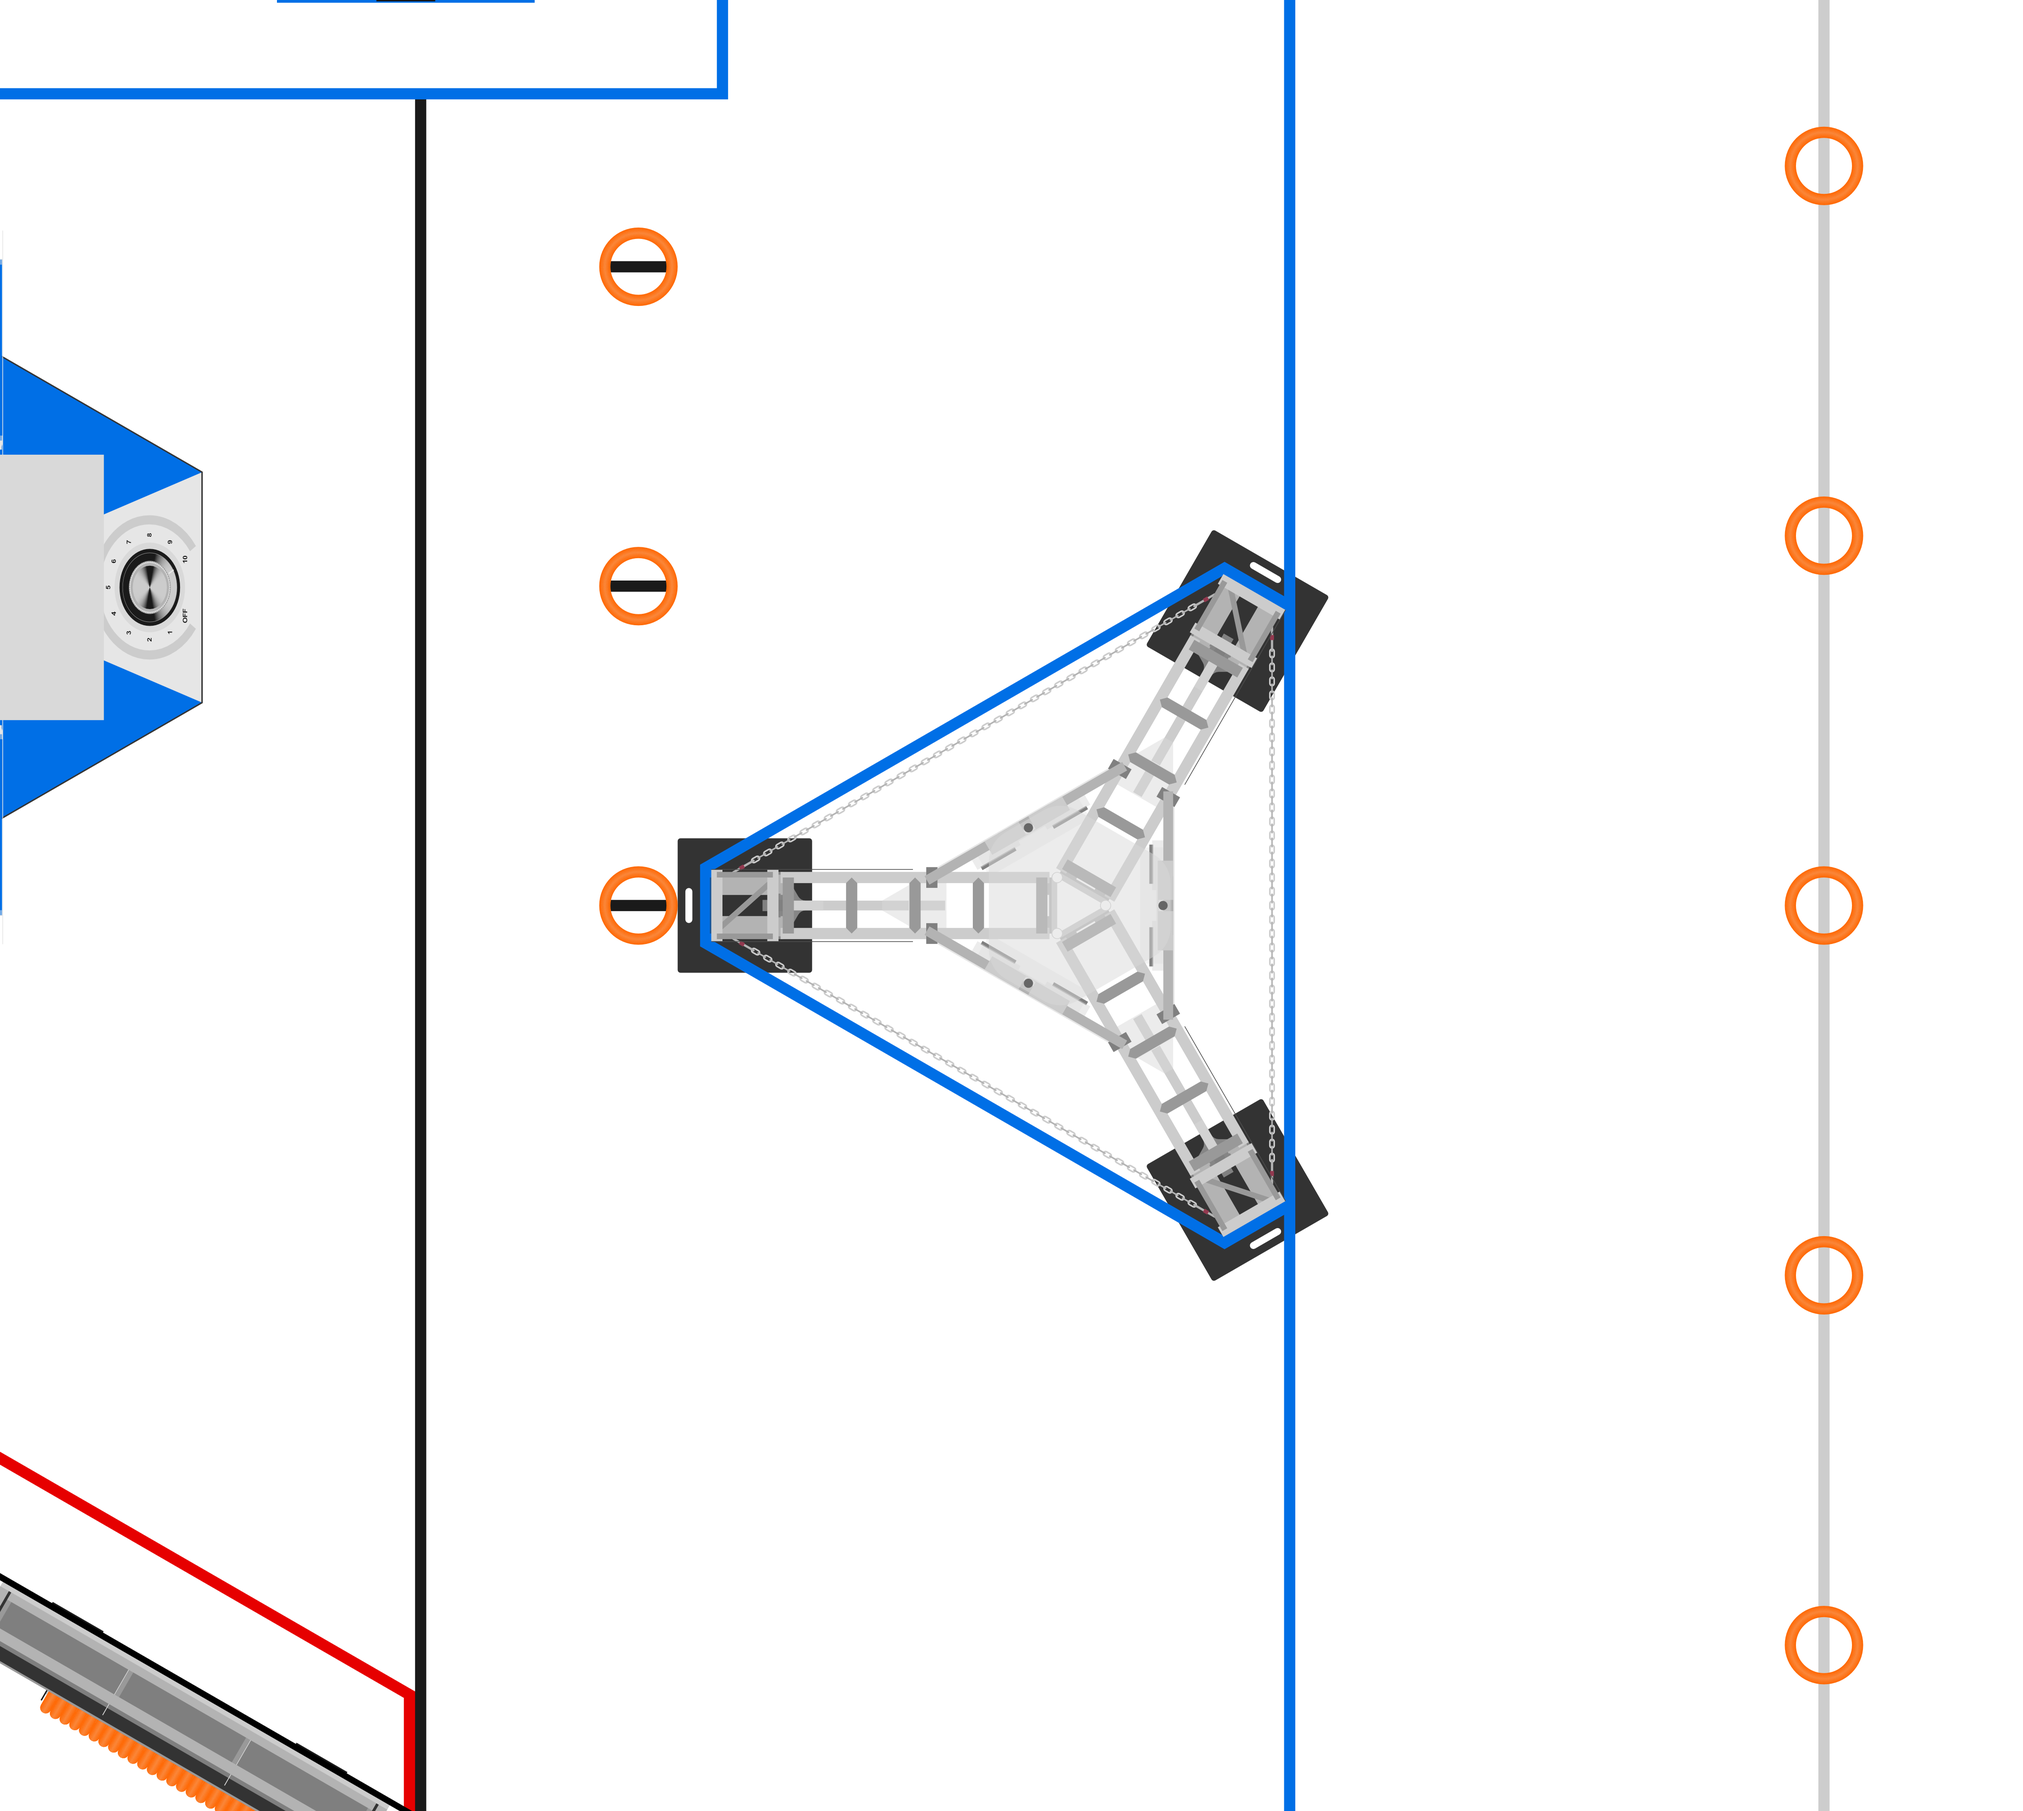
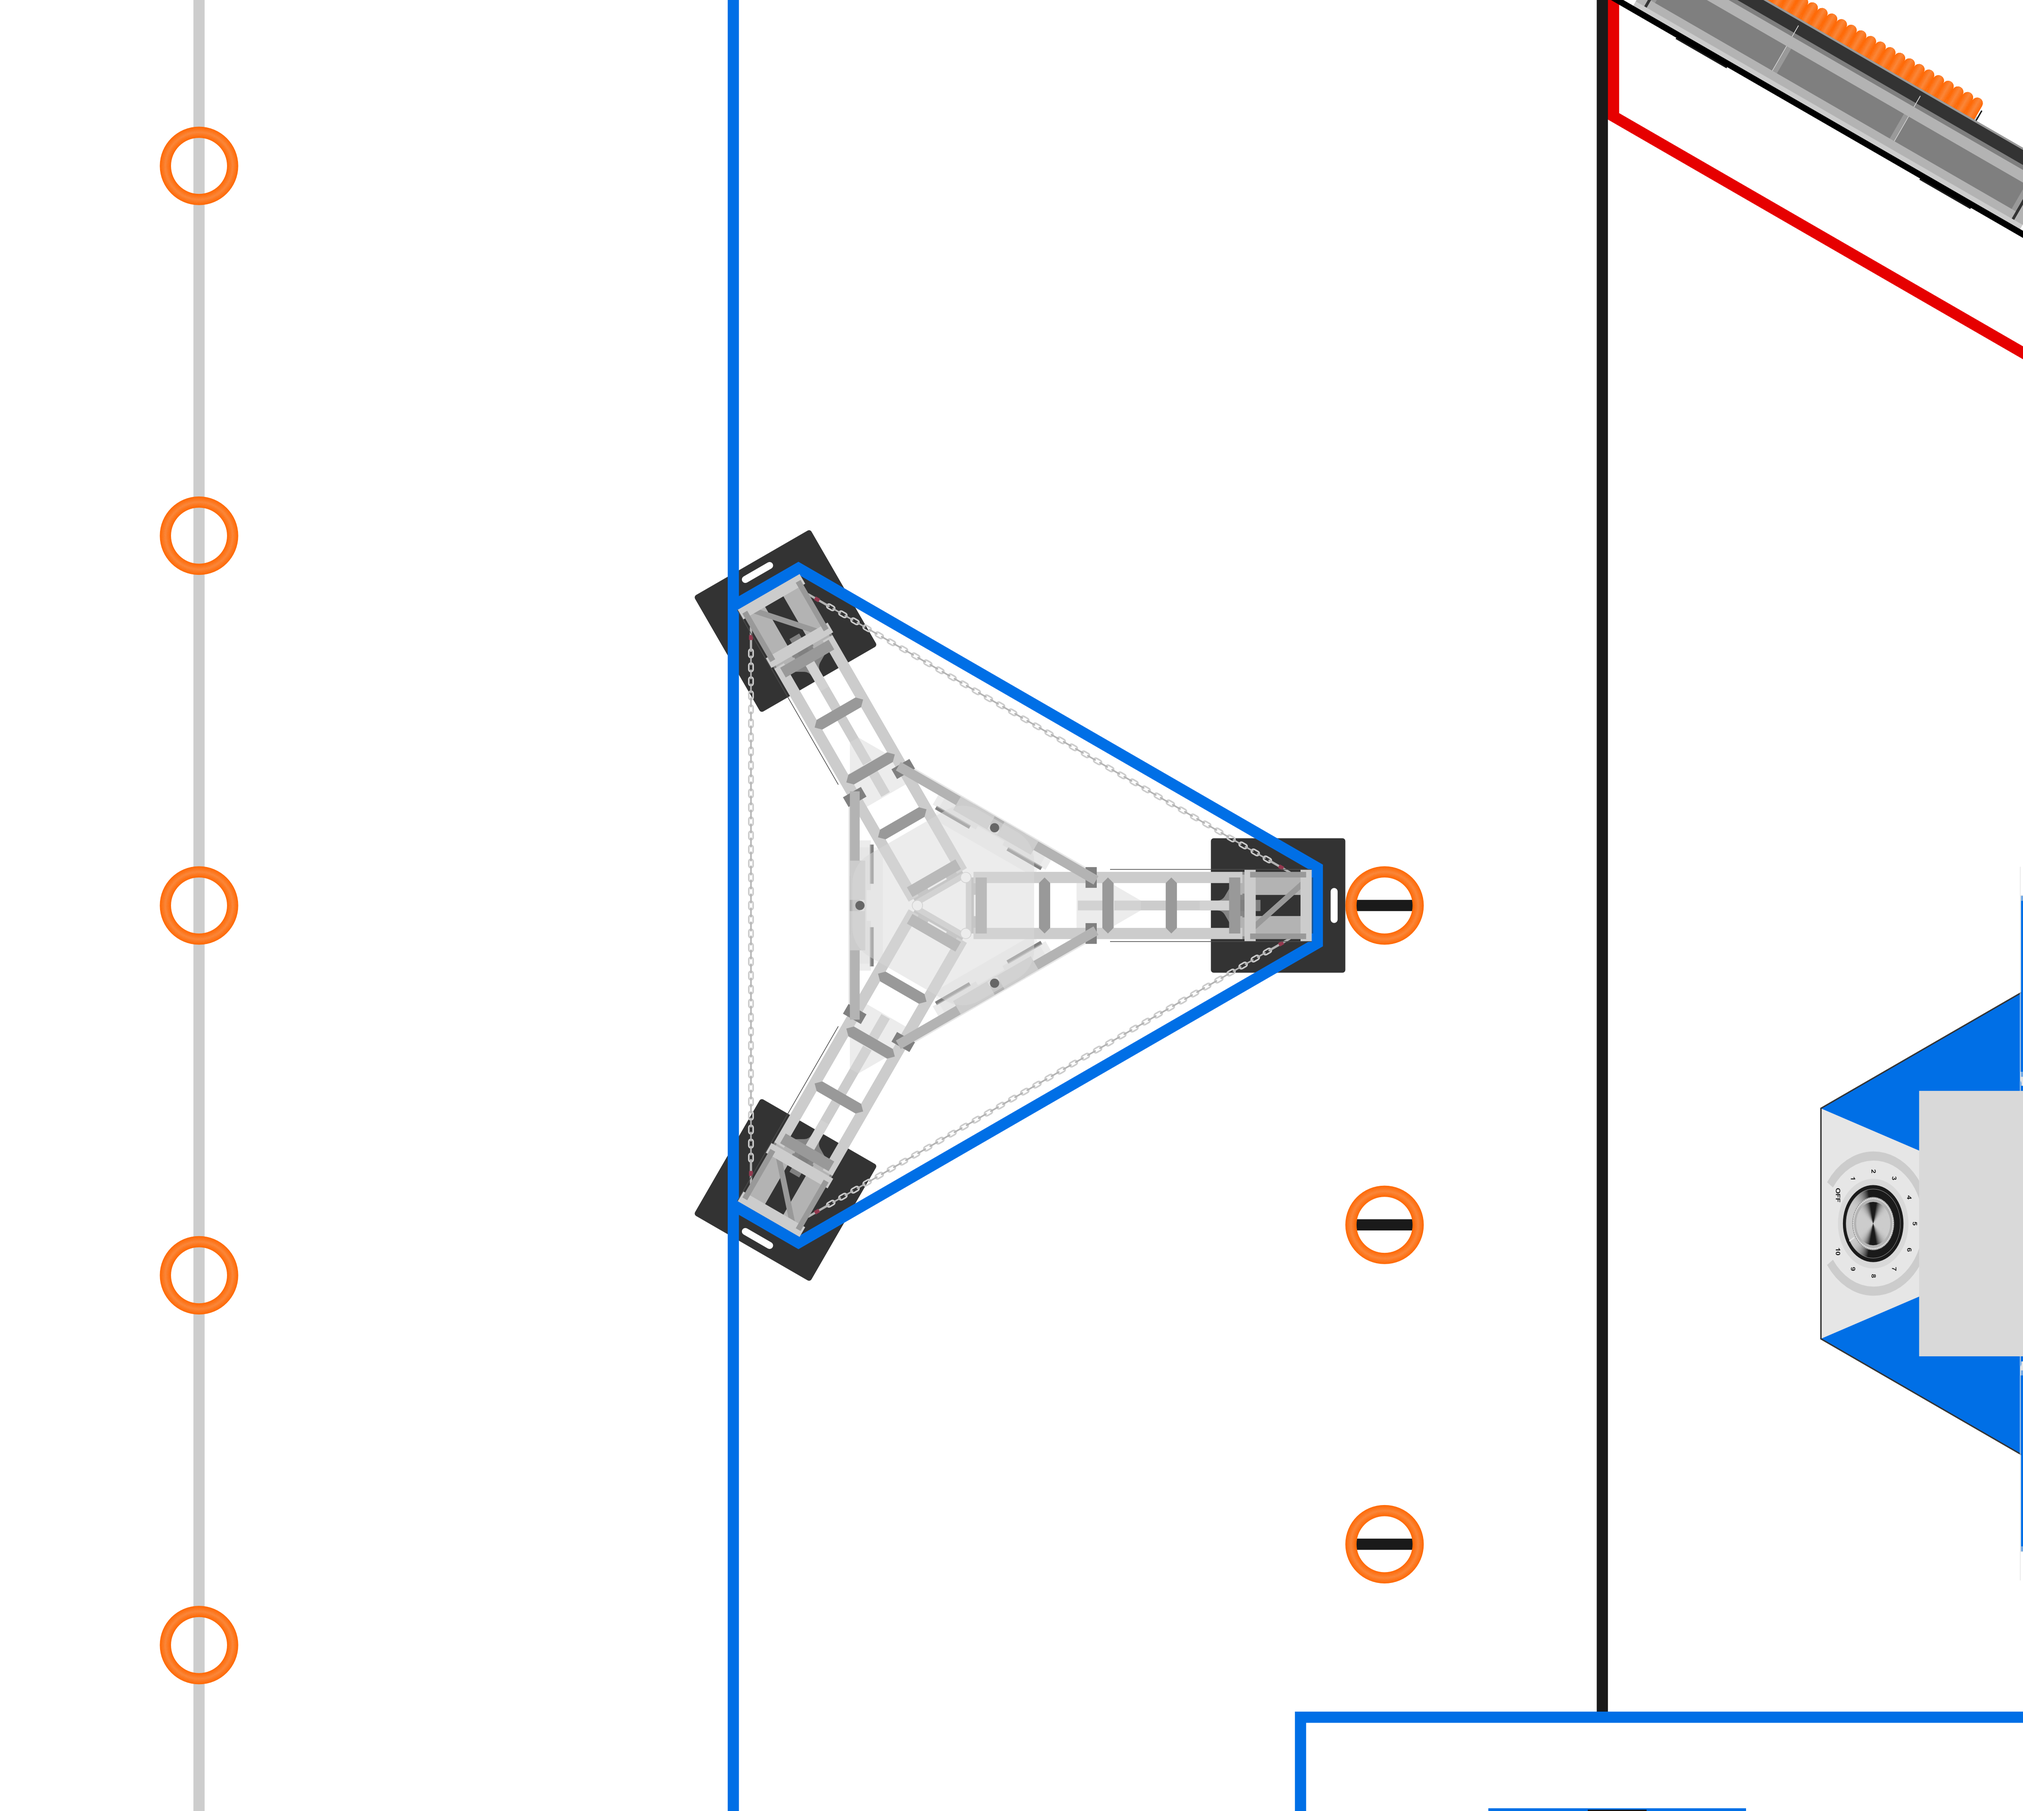
rotate fild

diff --git a/Variables.py b/Variables.py
@@ -1,20 +1,20 @@
 class Constants():
-    close_note_line_x = 0.336
-    far_note_line_x = 0.858
-    area_x = 0.15
+    close_note_line_x = 0.664
+    far_note_line_x = 0.142
+    area_x = 0.85
 
-    stage_note_y = 0.78
-    speaker_note_y = 0.848
-    amp_note_y = 0.915
+    stage_note_y = 0.644
+    speaker_note_y = 0.712
+    amp_note_y = 0.779
     mid_field_lowest_note_y = 0.624
     mid_field_low_note_y = 0.702
     mid_field_mid_note_y = 0.78
     mid_field_high_note_y = 0.858
     mid_field_highest_note_y = 0.935
-    A_area_y = 0.695
-    B_area_y = 0.795
-    C_area_y = 0.848
-    D_area_y = 0.91
+    A_area_y = 0.87
+    B_area_y = 0.77
+    C_area_y = 0.71
+    D_area_y = 0.645
 
 class DynamicVariables():
 
@@ -51,4 +51,3 @@ class DynamicVariables():
     teleop_delivery_count = "0"
         
     teleop_current_display_stats = "scored: 0" + "\n" + "missed: 0"
-
